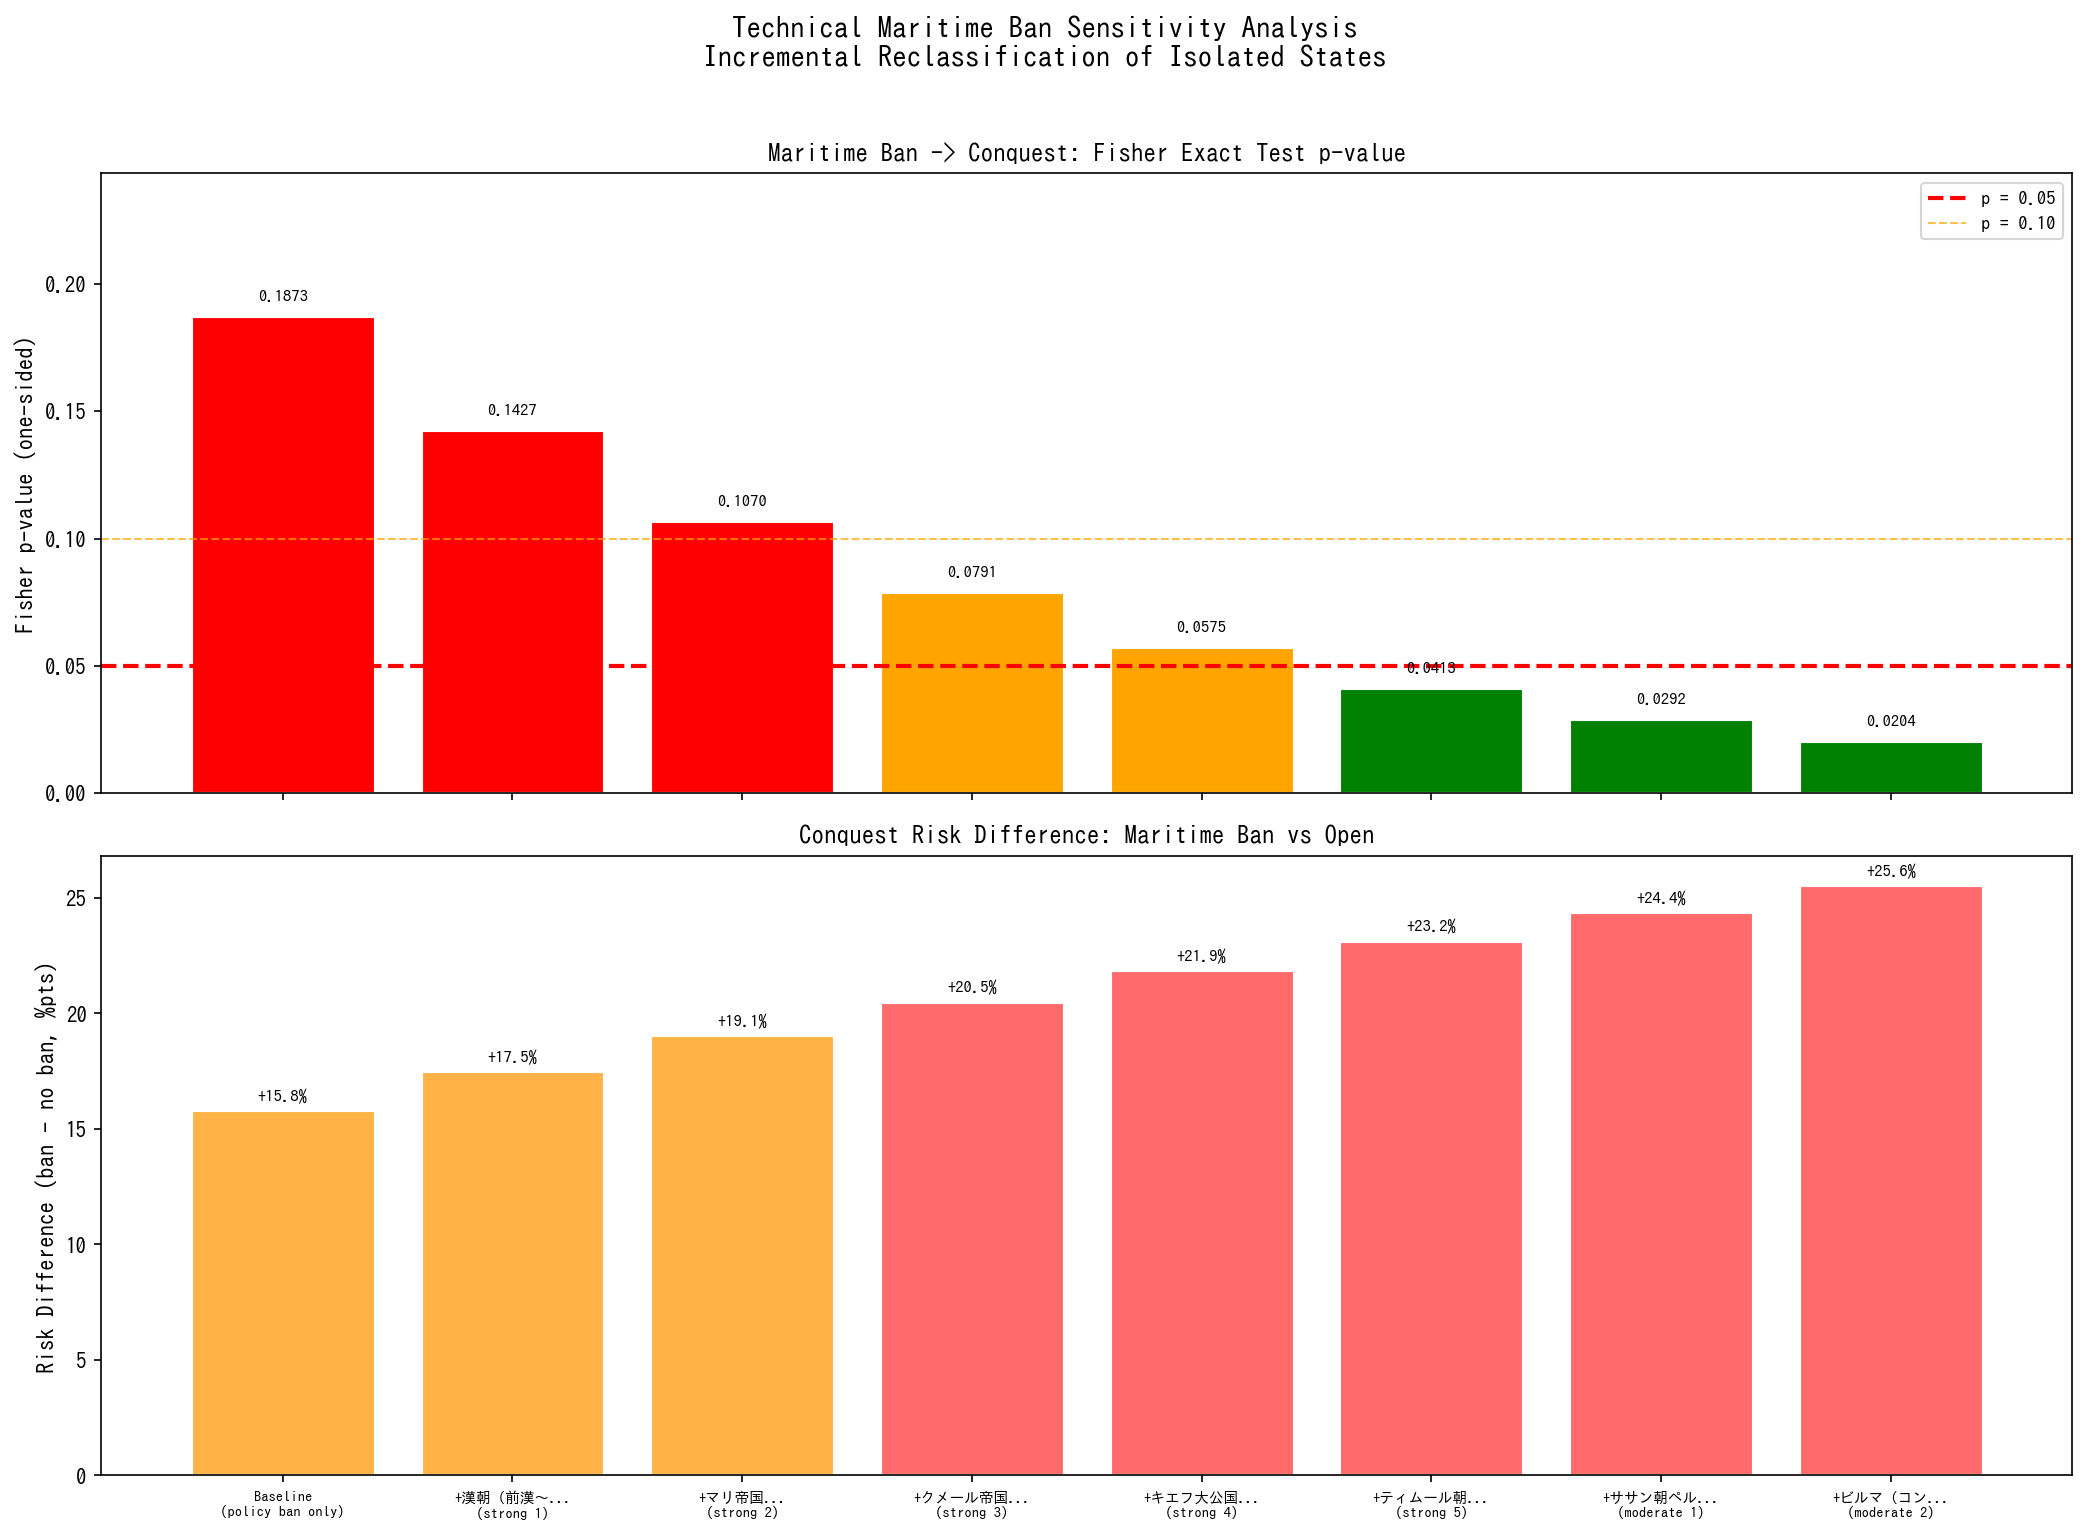
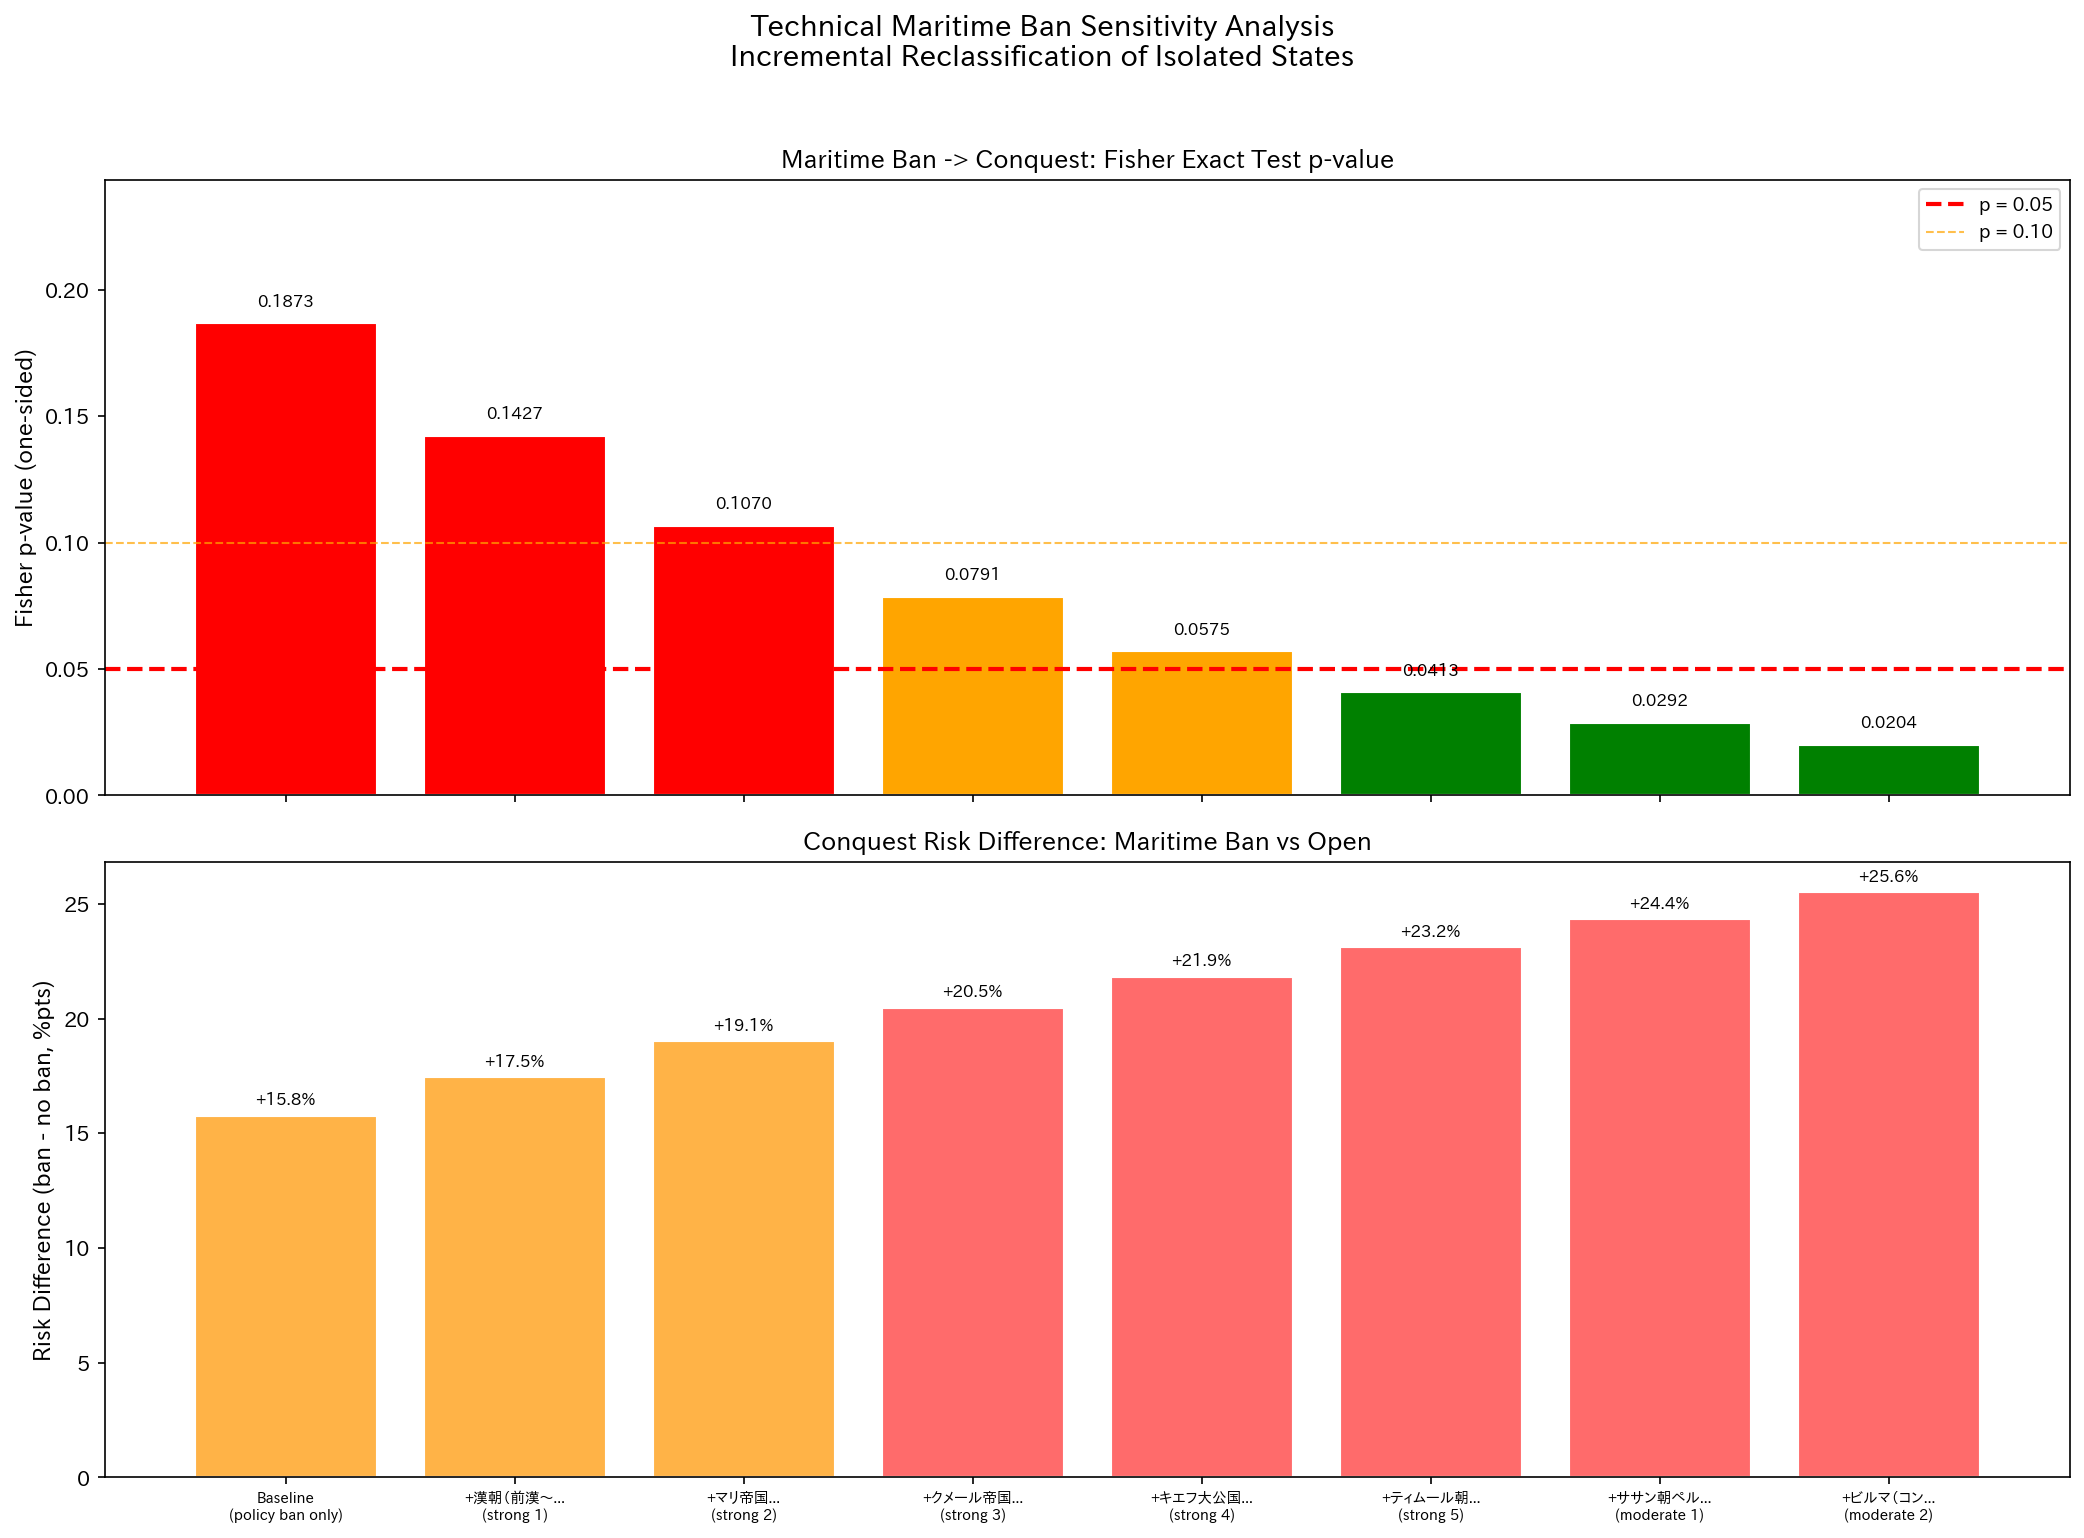
fix: Devin Review指摘の2件を修正
1. compute_mediation_paths: total effect c を mediator-independent に
   先頭で1回だけ計算するよう修正（各パスの try block 外に移動）
2. plot_sensitivity.py: risk difference ラベルを f"{rd:+.1f}%" に修正
   （負値で +-5.3% になるバグを修正）

diff --git a/beyond-gdp-national-power/sensitivity_technical_maritime_ban.py b/beyond-gdp-national-power/sensitivity_technical_maritime_ban.py
@@ -201,8 +201,17 @@ def compute_mediation_paths(df):
 
     paths = {}
 
-    # Path: stock → tech_position → outcome
     X_const = sm.add_constant(x)
+
+    # Total effect (mediator-independent)
+    c = None
+    try:
+        mod_total = sm.Logit(y, X_const).fit(disp=0)
+        c = mod_total.params.iloc[1]
+    except Exception:
+        pass
+
+    # Path: stock → tech_position → outcome
     try:
         mod_m = sm.OLS(df["tech_position"], X_const).fit()
         a = mod_m.params.iloc[1]
@@ -210,8 +219,6 @@ def compute_mediation_paths(df):
         mod_y = sm.Logit(y, XM).fit(disp=0, maxiter=100)
         b = mod_y.params["m"]
         c_prime = mod_y.params["x"]
-        mod_total = sm.Logit(y, X_const).fit(disp=0)
-        c = mod_total.params.iloc[1]
         paths["tech"] = {"a": a, "b": b, "ab": a * b, "c": c, "c_prime": c_prime}
     except Exception:
         paths["tech"] = None

diff --git a/beyond-gdp-national-power/plot_sensitivity.py b/beyond-gdp-national-power/plot_sensitivity.py
@@ -153,7 +153,7 @@ def plot_fisher_p_progression():
     bars2 = ax2.bar(range(len(labels)), risk_diffs, color=colors2, edgecolor="white", linewidth=1.5)
     for bar, rd in zip(bars2, risk_diffs):
         ax2.text(bar.get_x() + bar.get_width() / 2, bar.get_height() + 0.3,
-                 f"+{rd:.1f}%", ha="center", va="bottom", fontsize=8, fontweight="bold")
+                 f"{rd:+.1f}%", ha="center", va="bottom", fontsize=8, fontweight="bold")
     ax2.set_ylabel("Risk Difference (ban - no ban, %pts)", fontsize=11)
     ax2.set_title("Conquest Risk Difference: Maritime Ban vs Open", fontsize=12, fontweight="bold")
     ax2.set_xticks(range(len(labels)))
